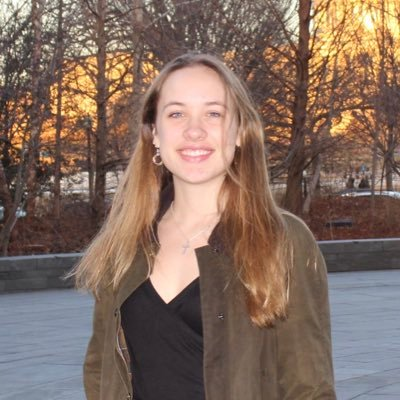
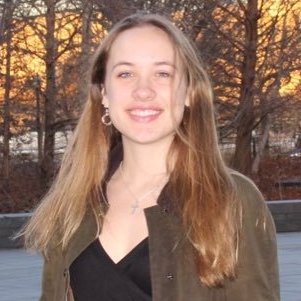
adjusted attribution of site design

diff --git a/index.html b/index.html
@@ -1,9 +1,10 @@
 <!DOCTYPE HTML>
 <html lang="en">
 <!--
-	Editorial by HTML5 UP
-	html5up.net | @ajlkn
-	Free for personal and commercial use under the CCA 3.0 license (html5up.net/license)
+	This website is a derivative of the editorial theme by HTML5UP
+	(https://html5up.net/editorial), which is licensed under CC BY 3.0
+	(https://creativecommons.org/licenses/by/3.0/us/).
+	The design for this site is licensed under CC BY 2.0 by Bayliss Wagner.
 -->
 <html>
 	<head>
@@ -11,6 +12,7 @@
 		<meta charset="utf-8" />
 		<meta name="viewport" content="width=device-width, initial-scale=1, user-scalable=no" />
 		<link rel="stylesheet" href="assets/css/main.css" />
+		<link href="https://fonts.googleapis.com/css?family=Merriweather|Oswald|Playfair+Display|Raleway" rel="stylesheet">
 	</head>
 	<body class="is-preload">
 
@@ -23,8 +25,9 @@
 
 							<!-- Header-->
 								<header id="header">
-									<a href="index.html" class="logo"><strong>home</strong></a>
-									<a href= "portfolio.html" class = "logo"> <strong>portfolio<strong> </a>
+									<h2><strong> Bayliss Wagner </strong></h2>
+									<h2><a href="index.html" class="logo"><strong>home</strong></a></h2>
+									<h2><a href= "portfolio.html" class = "logo"> <strong>portfolio<strong> </a></h2>
 									<!--<a href="blog.html" class = "logo"><strong>Blog<strong></a>-->
 									<!--<ul class="icons">
 										<li><a href="https://twitter.com/baylisswagner" class="icon fa-twitter"><span class="label">Twitter</span></a></li>
@@ -241,7 +244,9 @@
 							-->
 							<!-- Footer -->
 								<footer id="footer">
-									<p class="copyright">&copy; Untitled. All rights reserved. Demo Images: <a href="https://unsplash.com">Unsplash</a>. Design: <a href="https://html5up.net">HTML5 UP</a> and Bayliss Wagner.</p>
+									The design of this website is derived from <a href="https://html5up.net/editorial"> the editorial theme by HTML5UP</a>,
+									which is licensed under <a href= "https://creativecommons.org/licenses/by/3.0/us/">CC BY 3.0</a>.
+									Modified design of site by Bayliss Wagner, licensed for use under <a href= "https://creativecommons.org/licenses/by/3.0/us/">CC BY 3.0</a>.
 								</footer>
 
 						<!--</div>

diff --git a/assets/css/main.css b/assets/css/main.css
@@ -74,7 +74,7 @@ input, select, textarea {
 
 /*Portfolio*/
 .port-work{
-	background: rgb(230, 230, 230)
+	background: white
 
 }
 
@@ -98,8 +98,9 @@ input, select, textarea {
 }
 
 #page-title-1{
-	text-align: center;
+	text-align: left;
 	border: 20px;
+	line-height: 100px;
 }
 
 /* Basic */
@@ -147,7 +148,7 @@ input, select, textarea {
 
 	body, input, select, textarea {
 		color: #7f888f;
-		font-family: "Open Sans", sans-serif;
+		font-family: "Raleway", sans-serif;
 		font-size: 13pt;
 		font-weight: 400;
 		line-height: 1.65;
@@ -211,7 +212,7 @@ input, select, textarea {
 
 	h1, h2, h3, h4, h5, h6 {
 		color: #3d4449;
-		font-family: "Roboto Slab", serif;
+		font-family: "Merriweather", serif;
 		font-weight: 700;
 		line-height: 1.5;
 		margin: 0 0 1em 0;
@@ -1818,7 +1819,7 @@ input, select, textarea {
 	}
 
 	header p {
-		font-family: "Roboto Slab", serif;
+		font-family: "Merriweather", serif;
 		font-size: 1em;
 		font-weight: 400;
 		letter-spacing: 0.075em;
@@ -2498,7 +2499,7 @@ input, select, textarea {
 		color: #f56a6a !important;
 		cursor: pointer;
 		display: inline-block;
-		font-family: "Roboto Slab", serif;
+		font-family: "Merriweather", serif;
 		font-size: 0.8em;
 		font-weight: 700;
 		height: 3.5em;
@@ -3344,7 +3345,7 @@ input, select, textarea {
 		#header .logo {
 			border-bottom: 0;
 			color: inherit;
-			font-family: "Roboto Slab", serif;
+			font-family: "Merriweather", serif;
 			font-size: 1.125em;
 		}
 
@@ -3367,7 +3368,7 @@ input, select, textarea {
 			}
 
 				#header .logo {
-					font-size: 1.25em;
+				/*	font-size: 1.25em;*/
 					margin: 0;
 				}
 

diff --git a/assets/css/style.css b/assets/css/style.css
@@ -6,26 +6,84 @@
 */
 body{
     font-family: "Merriweather", serif;
+    margin: 0;
+    border: 0;
+    font-size: 12px;
 }
 
 
 #header{
     position: fixed;
-    margin: 0px;
-    background-color: #76F1DB;
+    margin: 5px 5px 5px 5px;
     height: 25%;
     width: 100%;
-    padding: 20px 5px 20px 5px;
+    padding: 10px 5px 5px 5px;
+    border-bottom: solid 15px #DCFEF0;
     position: relative;
+    line-height: .5;
+    background-image: "images/profile.jpg";
 }
 
-table header{
+table #header{
     padding: 5px;
     overflow: auto;
+    margin: 100px 100px 100px 100px;
 }
 
 header td{
     width: 50%;
-    padding: 20px;
-    border: 40px;
+    padding: 5px;
+    border: 0px;
+}
+
+header #profile {
+    width: 175px;
+    height: 175px;
+    position: relative;
+    margin-left: 300px;
+    border-radius: 0.375em;
+    display: inline-block;
+}
+
+header h2,  h3, h4, h5, h6{
+    font-family:"Raleway", sans-serif;
+}
+
+h1, h2, h3, h4, h5, h6 {
+    /*color: #3d4449;*/
+    font-weight: 700;
+    margin: 0 0 1em 0;
+}
+
+    a, h1 a, h2 a, h3 a, h4 a, h5 a, h6 a {
+
+        color: inherit;
+        text-decoration: none;
+        border-bottom: 0;
+    }
+
+h1 {
+    font-size: 4em;
+    margin: 0 0 0.5em 0;
+    line-height: 1.3;
+}
+
+h2 {
+    font-size: 1.75em;
+}
+
+h3 {
+    font-size: 1.25em;
+}
+
+h4 {
+    font-size: 1.1em;
+}
+
+h5 {
+    font-size: 0.9em;
+}
+
+h6 {
+    font-size: 0.7em;
 }

diff --git a/index2.html b/index2.html
@@ -22,24 +22,22 @@
                             <h2> j wagner 2 [at] swarthmore [dot] edu </h2>
                         </td>
                         <td>
-                            <img src = "images/profile2.jpg" alt = "Photo portrait of me."/>
+                            <img id= "profile" src = "images/profile.jpg" alt = "Photo portrait of me."/>
                         </td>
                     </tr>
                     <tr>
-                        <td> <a href= "portfolio.html" class = "logo"> <strong>portfolio<strong> </a>
+                        <td> <h2><a href= "portfolio.html" class = "logo"> <strong>portfolio<strong> </a></h2>
                         </td>
-                        <td> <a href="index.html" class="logo"><strong>home</strong></a>
+                        <td> <h2><a href="index.html" class="logo"><strong>home</strong></a></h2>
                         </td>
                     </tr>
-
-				<a href= "portfolio.html" class = "logo"> <strong>portfolio<strong> </a>
                 </table>
 			</header>
 
 			<!-- Banner
 			<section>
 				<div>
-					<!--<header>
+					<!header>
 					<h1>Bayliss Wagner</h1>
 					</header>
 					<p>I am an enthusiastic writer, coder, reporter, and reader in Swarthmore's Class of 2021. </p>

diff --git a/portfolio.html b/portfolio.html
@@ -1,8 +1,9 @@
 <!DOCTYPE HTML>
 <!--
-	Editorial by HTML5 UP
-	html5up.net | @ajlkn
-	Free for personal and commercial use under the CCA 3.0 license (html5up.net/license)
+	This website is a derivative of the editorial theme by HTML5UP
+	(https://html5up.net/editorial), which is licensed under CC BY 3.0
+	(https://creativecommons.org/licenses/by/3.0/us/).
+	This website is licensed under CC BY 2.0 by Bayliss Wagner.
 -->
 <html>
 	<head>
@@ -31,7 +32,7 @@
 									</ul>-->
 								</header>
 
-							<h1 id = "page-title-1"> Bayliss's Portfolio </h1>
+							<h1 id = "page-title-1"> portfolio </h1>
 
 							<div class = "port-work">
 								<table>

diff --git a/about_me.py b/about_me.py
@@ -1,0 +1,12 @@
+#Bayliss's about me code
+
+import time #how i wish i could do this in my physical life...
+
+def main():
+
+    
+
+    for i in range(10):
+
+
+main()
